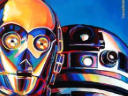
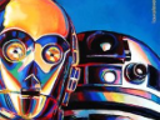
Photo works fully now

diff --git a/Seahaven/website/src/websocket.js b/Seahaven/website/src/websocket.js
@@ -6,18 +6,14 @@ function wsOnMessage(event) {
 
    // Message looks like => { "type" : 1, "value" : 0 }
   var message = JSON.parse(event.data);
-    log("websocket", "Key - Value", message.type, message.value);
+  log("websocket", "Key - Value", message.type, message.value);
   switch(parseInt(message.type)) {
-  case 0:
-      break;
   case 1:
       if ((message.value == 0 && !s_lightOn) ||
           (message.value == 1 && s_lightOn)  ||
           (message.value == 2)) {
         (s_animationOn) ? wsBusy() : lightAnimation();
       }
-      break;
-  case 2:
       break;
   case 3:
       if ((message.value == 0 && !s_fireOn) ||
@@ -31,7 +27,8 @@ function wsOnMessage(event) {
       (s_animationOn) ? wsBusy() : pictureAnimation();
     } else if (message.value == 1 && s_pictureUp) { 
       pictureFlash();
-    } else if (message.value == 2) { 
+    } else if (message.value >= 2) { 
+      s_pictureIndex = message.value;
       pictureTrigger();
     }
       break;
@@ -46,8 +43,6 @@ function wsOnMessage(event) {
       if (s_speakersOn) { speakersOff(); }
       speakerAnimation();
     }
-    break;
-  case 6:
     break;
   case 7:
     if (s_animationOn && !s_tiltAnim) {
@@ -104,6 +99,7 @@ function wsTiltDone() {
 function wsVolume(value) {
   webSocket.send("8:" + value);
 }
+
 /////////////////////////////////////
 // for testing to callback echo ws //
 /////////////////////////////////////

diff --git a/Seahaven/website/src/animation.js b/Seahaven/website/src/animation.js
@@ -42,6 +42,7 @@ var s_speakOn       = false;
 var s_pictureUp     = false;
 var s_pictureTaken  = false;
 var s_pictureAnim   = false;
+var s_pictureIndex  = 2;
 
 const walkRate = 2;
 const fallRatePlayer = 3;
@@ -390,8 +391,8 @@ function pictureTrigger() {
 
 function pictureChange() { 
 
-    (new PIXI.loaders.Loader()).add('newPicture', resPath.cameraImage).
-        load(function (loader, res) { 
+    (new PIXI.loaders.Loader()).add('newPicture', resPath.cameraImage + s_pictureIndex + ".jpg").
+        load(function (loader, res) {
             picture.texture = res.newPicture.texture;
         });
 }

diff --git a/Seahaven/website/src/resoursepointer.js b/Seahaven/website/src/resoursepointer.js
@@ -1,6 +1,6 @@
 const resPath = {
     "couch": "res/img/couch.png",
-    "cameraImage": "res/img/camera_image.jpg",
+    "cameraImage": "res/img/camera_image",
     "fireAnimated": "res/spritesheet/fire_animated.json",
     "firePlace": "res/img/fire_place.png",
     "flashAnimated" : "res/spritesheet/flash_animated.json",

diff --git a/Seahaven/website/src/main.js b/Seahaven/website/src/main.js
@@ -70,7 +70,7 @@ function setup() {
             path: resPath.picture,
             pt: new PIXI.Point(0.25, 0.26),            
             anchorY: -.61,
-            scale: 1.0
+            scale: .8
         },
         {
             type: 'add',

diff --git a/Seahaven/main.c b/Seahaven/main.c
@@ -54,10 +54,16 @@ void webDataCallback( int type, char* value) {
 	// This is a dirty way of matching timing for flash of camera
 	if (fork()==0){
 	  // Take picture
-	  sprintf(command, "ffmpeg -f video4linux2 -s 160x120 -i /dev/video0 -vf vflip -frames 1 ./website/res/img/camera_image.jpg -y -loglevel quiet");
+	  sprintf(command, "ffmpeg -f video4linux2 -s 160x120 -i /dev/video0 -vf vflip -frames 1 ./website/res/img/camera_image%d.jpg -y -loglevel quiet", photo_index);
 	  system(command);
 
-	  broadcastString("4","2");
+	  broadcastInt("4", photo_index++);
+
+    // clean up photos after first one
+    if (photo_index > 3) {
+      sprintf(command, "rm ./website/res/img/camera_image%d.jpg -f", photo_index - 1);
+      system(command);
+    }
 	  kill(getpid(), SIGKILL);
 	}
 	

diff --git a/Seahaven/status.h b/Seahaven/status.h
@@ -6,3 +6,4 @@ uint8_t animation_on;
 uint8_t audio_plugged_in;
 uint8_t gyro_tripped;
 uint8_t speaker_animation_ready;
+uint16_t photo_index = 2;

diff --git a/Seahaven/README.md b/Seahaven/README.md
@@ -11,9 +11,7 @@ Each event is given a index number to save from having to send a string. A futur
 Each event has two parts `<type> <value>`
 
 ## Host-to-Web Calls
-- `0` - General state of animation
-  - `0` - Go to ideal mode
-  - `1` - Get ready to ask question
+- `0`
 - `1` - Light switch animation
   - `0` - Turn on
   - `1` - Turn off
@@ -34,8 +32,7 @@ Each event has two parts `<type> <value>`
   - `1` - Music playing
   - `2` - Music stopped
   - `3` - Put away speakers
-- `6` - Music BPM
-  - Value int of BPM
+- `6`
 - `7` - Gyro animation
   - Value is of rotation in degrees between -Pi/2 and Pi/2 where 0 is level
     - **NOTE**: You need the leading zero so `0.707`, NOT `.707`
